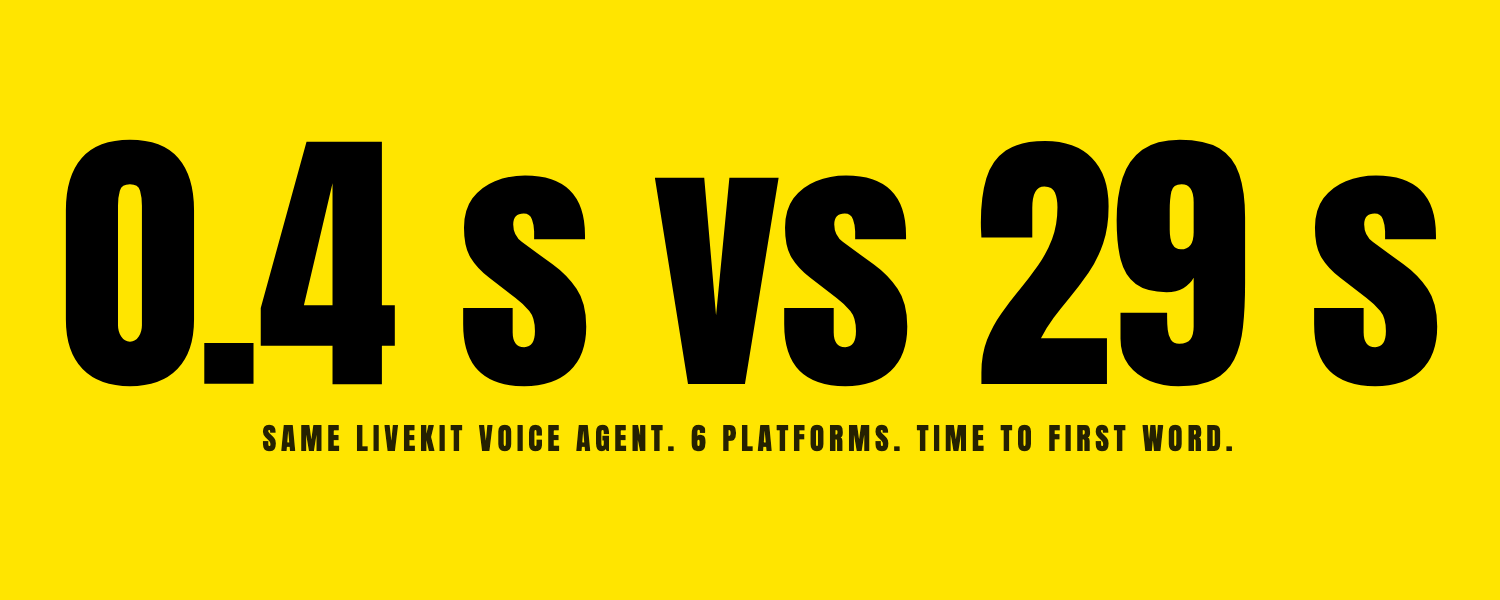
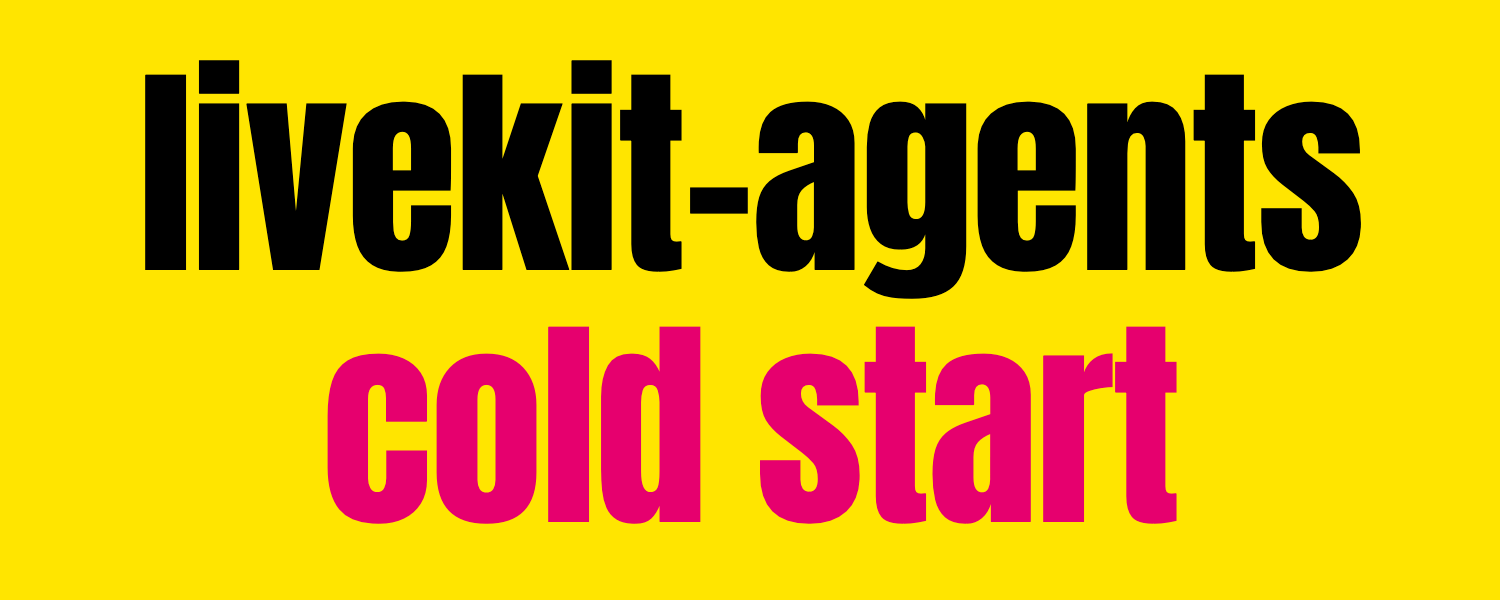
docs: simplify X cover to livekit-agents cold start

diff --git a/docs/assets/src/x-cover.html b/docs/assets/src/x-cover.html
@@ -9,11 +9,11 @@ html, body { margin: 0; }
 /* flat electric yellow, black type filling the frame (mahimai-x-image layout A) */
 #stage { background: #FFE500; display: flex; flex-direction: column; align-items: center; justify-content: center; overflow: hidden; }
 .head { font-family: Anton, sans-serif; color: #000; line-height: 0.9; letter-spacing: -0.01em; white-space: nowrap; }
-.sub { font-family: Anton, sans-serif; color: #000; text-transform: uppercase; letter-spacing: 0.16em; opacity: 0.85; white-space: nowrap; }
+.two { color: #E6006E; }
 </style>
 </head>
 <body>
-<div id="stage"><div class="head" id="h">0.4 s vs 29 s</div><div class="sub" id="u">Same LiveKit voice agent. 6 platforms. Time to first word.</div></div>
+<div id="stage"><div class="head" id="h">livekit-agents</div><div class="head two" id="u">cold start</div></div>
 <script>
 // ?w=1600&h=900 sets the frame; text is sized to fill ~92% of the width.
 (async () => {
@@ -25,9 +25,9 @@ const fit = (el, frac, maxH) => {
   const s = Math.min((W * frac) / el.scrollWidth, maxH / el.offsetHeight) * 100;
   el.style.fontSize = s + "px";
 };
-fit(document.getElementById("h"), 0.92, H * 0.62);
-fit(document.getElementById("u"), 0.86, H * 0.075);
-document.getElementById("u").style.marginTop = H * 0.04 + "px";
+fit(document.getElementById("h"), 0.86, H * 0.34);
+fit(document.getElementById("u"), 0.86, H * 0.34);
+document.getElementById("u").style.marginTop = H * 0.08 + "px";
 window.ready = true;
 })();
 </script>
